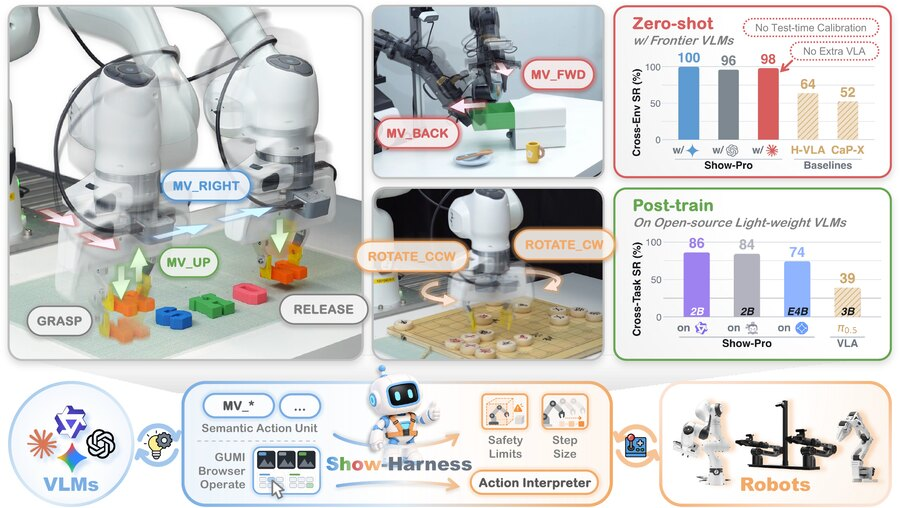
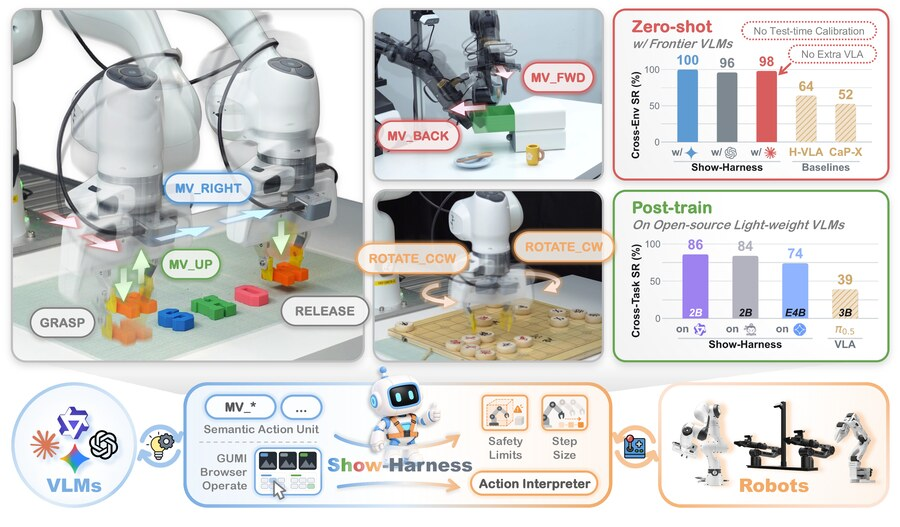
Refresh the Show-Harness thumbnail and the dark-mode signature
Squashed from 2 commits made on 2026-09-06.

- Swap the gallery signature for a white one in dark mode

  Two images toggled by :root[data-theme], not <picture> with
  prefers-color-scheme: the theme here is written to a data attribute by
  theme.js and deliberately does not follow the system, so a media query
  would never see it. The white file is resized to 340x136 to match the
  existing one, and the 1200px original goes to the ignored src folder.

- Rebuild the Show-Harness thumbnail from the updated source

  Same pipeline as the other publication figures: page 1 at 300 dpi,
  flattened onto white, 900px wide, quality 88. The new teaser is a
  slightly taller crop, 900x527 against the old 900x508.

diff --git a/gallery/index.html b/gallery/index.html
@@ -74,6 +74,13 @@
 
   .sign { text-align: center; padding: 58px 0 8px; }
   .sign img { width: 170px; opacity: .55; }
+  /* 深浅两版签名各放一张，靠 data-theme 切换。
+     不能用 <picture> 的 prefers-color-scheme —— 本站不跟随系统偏好，
+     明暗完全由 theme.js 写在 <html data-theme> 上，媒体查询看不到它。
+     display:none 的那张会退出无障碍树，所以两张都保留同样的 alt。 */
+  .sign .on-dark { display: none; }
+  :root[data-theme="dark"] .sign .on-light { display: none; }
+  :root[data-theme="dark"] .sign .on-dark  { display: inline; }
 
 
   /* 轮播需要横向铺满视口，故整段脱离 .wrap 的宽度限制 */
@@ -205,7 +212,10 @@
     </div>
   </section>
 
-  <div class="sign rise"><img src="/assets/img/gallery/signature.png" alt="Cao Zhijun Aaron"></div>
+  <div class="sign rise">
+    <img class="on-light" src="/assets/img/gallery/signature.png" alt="Cao Zhijun Aaron">
+    <img class="on-dark" src="/assets/img/gallery/signature-dark.png" alt="Cao Zhijun Aaron">
+  </div>
 
   <!-- <section class="gsec wrap" id="back">
     <p class="rise">Back to 👉 <a href="/"><strong>🏠 Home</strong></a></p>
